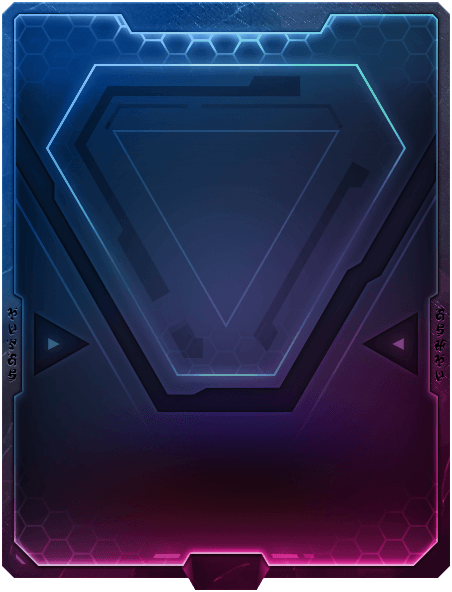
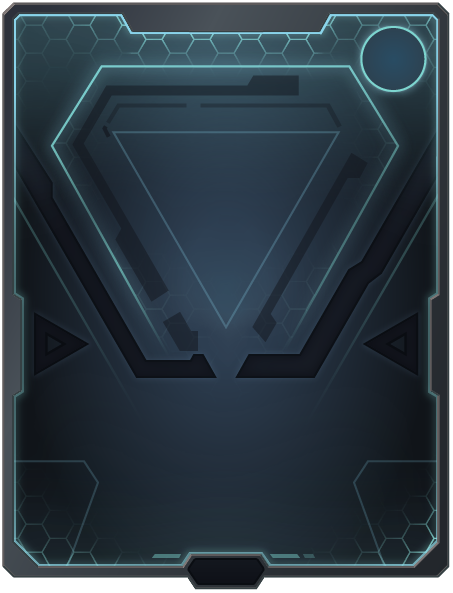
official rarity & gems

diff --git a/src/components/Card/CardDisplay.tsx b/src/components/Card/CardDisplay.tsx
@@ -25,24 +25,6 @@ const CardDisplay: React.FC<CardDisplayProps> = ({ card }) => {
           }}
           className="pb-2 card-border cursor-pointer transition-all m-5 relative flex flex-col rounded-md  min-h-[330px] min-w-[250px] p-1 select-none bg-no-repeat bg-cover"
         >
-          {card.cardType.toUpperCase() !== "GENERAL" && (
-            <ManaGem
-              cost={card.mana}
-              className="absolute top-0 left-0 -translate-x-1/2 -translate-y-1/2 h-12 w-12"
-            />
-          )}
-          {/* Rarity */}
-          <div className="absolute top-5 right-2 flex flex-col gap-2">
-            <div className="">
-              <Image
-                className="overflow-hidden"
-                alt="Faction"
-                src={`/icons/factions/${Faction[card.faction]} rune.png`}
-                height={30}
-                width={30}
-              />
-            </div>
-          </div>
           <div
             className={`flex-1 pixelated ${
               card.cardType.toUpperCase() === "SPELL" ||
@@ -94,6 +76,37 @@ const CardDisplay: React.FC<CardDisplayProps> = ({ card }) => {
               {card.health}
             </span>
             <div className="absolute bottom-20 left-1/2 -translate-x-1/2"></div>
+            {card.cardType.toUpperCase() !== "GENERAL" && (
+              <ManaGem
+                cost={card.mana}
+                className="absolute top-0 left-0 -translate-x-1/2 -translate-y-1/2 h-12 w-12"
+              />
+            )}
+            {/* Rarity */}
+            {card.cardType.toUpperCase() !== "GENERAL" &&
+              card.rarity.toUpperCase() !== "TOKEN" && (
+                <div className="absolute bottom-24 right-1/2 translate-x-1/2">
+                  <Image
+                    className="overflow-hidden"
+                    alt="Rarity"
+                    src={`/icons/rarity/collection_card_rarity_${card.rarity.toLowerCase()}.png`}
+                    height={44}
+                    width={44}
+                  />
+                </div>
+              )}
+            {/* Faction */}
+            <div className="absolute top-[1.1em] right-[1em] flex flex-col gap-2">
+              <div className="">
+                <Image
+                  className="overflow-hidden"
+                  alt="Faction"
+                  src={`/icons/factions/${Faction[card.faction]} rune.png`}
+                  height={30}
+                  width={30}
+                />
+              </div>
+            </div>
           </div>
         </div>
       </Link>
